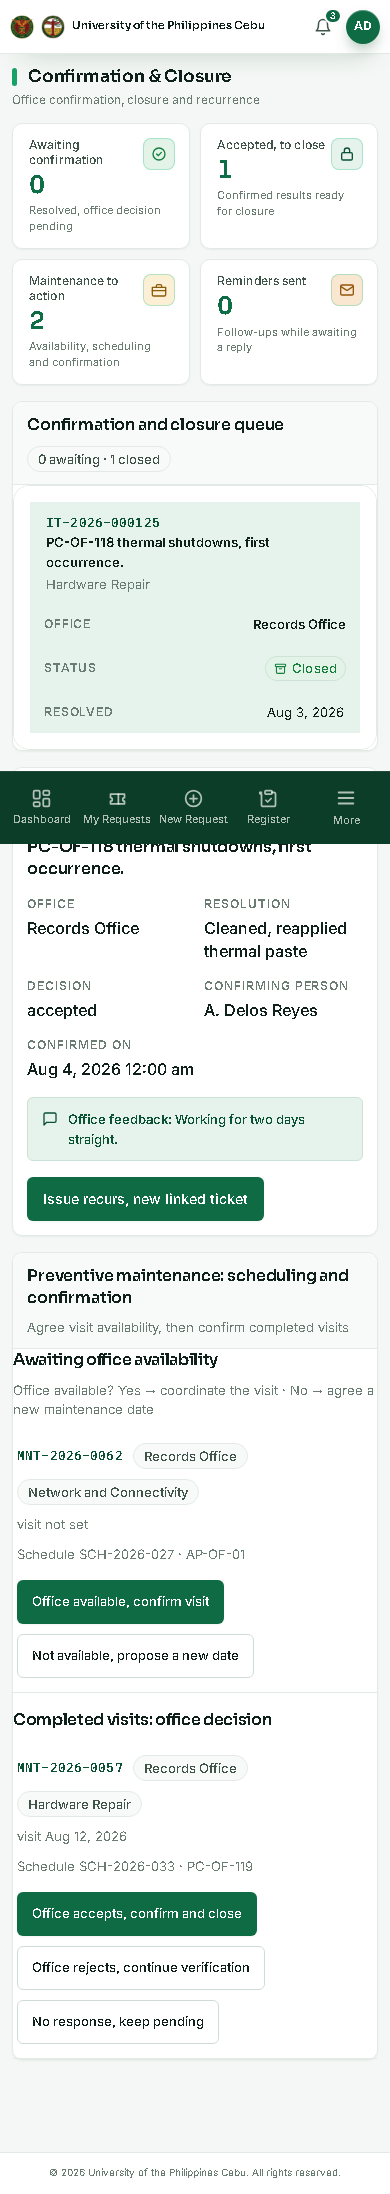
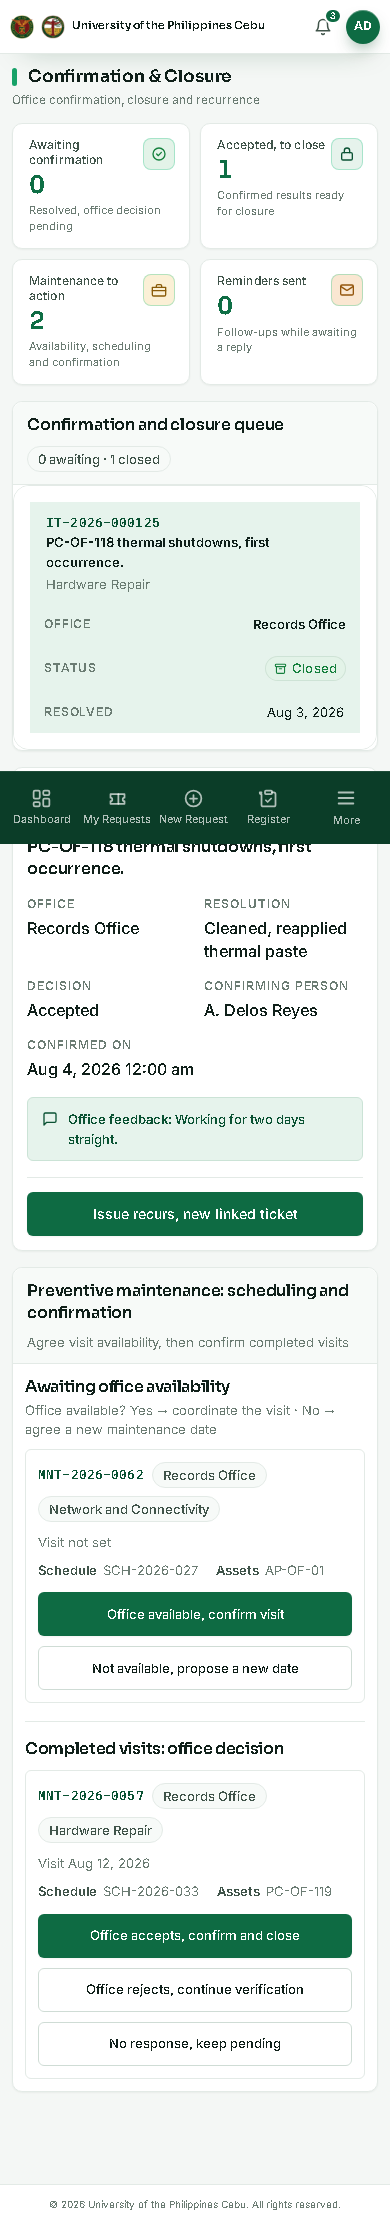
Phase 52: the Confirmation screen reads as one formal layout
Each maintenance visit is a full-width row with aligned chips, a right
aligned visit date, labelled schedule metadata and grouped actions. The
maintenance card body is padded and its two sections are divided by a rule,
the decision value is capitalized, and the ticket actions sit in one footer
row. The ownership check records that the workflow guide stays routable but
unlisted, and the shell cache moves to v22.

diff --git a/confirm.html b/confirm.html
@@ -56,7 +56,7 @@
       <div class="card mt">
         <div class="card-head"><h3>Preventive maintenance: scheduling and confirmation</h3>
           <span class="hint">Agree visit availability, then confirm completed visits</span></div>
-        <div id="cfJobs"></div>
+        <div id="cfJobs" class="cf-body"></div>
       </div>
     </main>
 
@@ -85,6 +85,12 @@ function kpi(label, value, delta, cls, dot) {
     '</div><div class="value">' + value + '</div><div class="delta">' + delta + '</div></div>';
 }
 function btn(label, a, cls) { return '<button class="btn ' + cls + '" data-act="' + a + '">' + label + '</button>'; }
+function decisionLabel(st) {
+  return {
+    pending: 'Pending', none: 'Pending', accepted: 'Accepted',
+    rejected: 'Rejected', no_response: 'No response'
+  }[st] || st;
+}
 
 /* Office tenancy: mirrors app._scoped_requester.  The office owns its records,
    and a person also keeps the requests they raised for another office.  The
@@ -199,12 +205,12 @@ function render() {
       (Store.db.role === 'requester' ? '' :
         '<div><div class="k">Technician</div><div class="v">' + UI.esc(t.technician || 'Unassigned') + '</div></div>') +
       '<div><div class="k">Resolution</div><div class="v">' + UI.esc(t.diagnosis.actions || t.diagnosis.findings || 'Not recorded') + '</div></div>' +
-      '<div><div class="k">Decision</div><div class="v">' + UI.esc(st === 'none' ? 'pending' : st) + '</div></div>' +
+      '<div><div class="k">Decision</div><div class="v">' + UI.esc(decisionLabel(st)) + '</div></div>' +
       '<div><div class="k">Confirming person</div><div class="v">' + UI.esc(t.confirmation.person || 'Not recorded') + '</div></div>' +
       '<div><div class="k">Confirmed on</div><div class="v">' + (t.confirmation.date ? UI.clock(t.confirmation.date) : 'Not set') + '</div></div>' +
       '</div>' +
       (t.confirmation.feedback ? '<div class="note mt"><span>' + UI.icon('message') + '</span><div><b>Office feedback:</b> ' + UI.esc(t.confirmation.feedback) + '</div></div>' : '') +
-      '<div class="row mt">' + ticketActions(t) + '</div>' +
+      '<div class="cf-detail-actions">' + ticketActions(t) + '</div>' +
       '</div>';
     panel.querySelectorAll('[data-act]').forEach(function (b) {
       b.addEventListener('click', function () { Actions.act(b.dataset.act, t.id, render); });
@@ -213,24 +219,28 @@ function render() {
 
   /* Maintenance: office availability (Requester lane) + Section 3 confirmation */
   function jobHead(j) {
-    return '<div class="card-head-row">' +
-      '<div class="row"><span class="t-id">' + UI.esc(j.id) + '</span><span class="chip">' + UI.esc(j.office) + '</span>' +
+    return '<div class="cf-job-top">' +
+      '<div class="cf-job-id"><span class="t-id">' + UI.esc(j.id) + '</span>' +
+      '<span class="chip">' + UI.esc(j.office) + '</span>' +
       '<span class="chip">' + UI.esc(j.category) + '</span></div>' +
-      '<span class="hint">' + (j.visitDate ? 'visit ' + UI.dateOnly(j.visitDate) : 'visit not set') + '</span></div>' +
-      '<div class="t-sub mt-xs">Schedule ' + UI.esc(j.scheduleId) + ' · ' + UI.esc(j.assets.join(', ')) +
-      (Store.db.role === 'requester' ? '' : ' · technician ' + UI.esc(j.technician)) + '</div>';
+      '<span class="cf-job-date">' + (j.visitDate ? 'Visit ' + UI.dateOnly(j.visitDate) : 'Visit not set') + '</span></div>' +
+      '<div class="cf-job-meta">' +
+      '<span><b>Schedule</b>' + UI.esc(j.scheduleId) + '</span>' +
+      '<span><b>Assets</b>' + UI.esc(j.assets.join(', ')) + '</span>' +
+      (Store.db.role === 'requester' ? '' : '<span><b>Technician</b>' + UI.esc(j.technician) + '</span>') +
+      '</div>';
   }
 
   var openHTML = openJobs.length ? openJobs.map(function (j) {
-    return '<div class="card-block">' + jobHead(j) +
-      '<div class="row mt">' +
+    return '<div class="cf-job">' + jobHead(j) +
+      '<div class="cf-job-actions">' +
       '<button class="btn btn-sm btn-primary" data-job="' + j.id + '" data-jact="availYes">Office available, confirm visit</button>' +
       '<button class="btn btn-sm btn-ghost" data-job="' + j.id + '" data-jact="availNo">Not available, propose a new date</button>' +
       '</div></div>';
   }).join('') : '<div class="empty"><img src="img/empty-inbox.svg" alt="" width="120" height="90" loading="lazy">No maintenance visit is waiting on your office.</div>';
 
   var doneHTML = jobs.length ? jobs.map(function (j) {
-    var h = '<div class="card-block">' + jobHead(j) + '<div class="row mt">';
+    var h = '<div class="cf-job">' + jobHead(j) + '<div class="cf-job-actions">';
     if (Store.db.role === 'requester') {
       h += '<button class="btn btn-sm btn-primary" data-job="' + j.id + '" data-jact="confYes">Office accepts, confirm and close</button>' +
         '<button class="btn btn-sm btn-ghost" data-job="' + j.id + '" data-jact="confNo">Office rejects, continue verification</button>' +
@@ -242,14 +252,17 @@ function render() {
     return h + '</div></div>';
   }).join('') : '<div class="empty"><img src="img/empty-inbox.svg" alt="" width="120" height="90" loading="lazy">No completed maintenance visit is awaiting confirmation.</div>';
 
-  /* visits pair up two per row: each block carries only a head and one
-     action row, so one per row left most of the page width empty */
+  /* Each visit is one full-width row: the id, office, category and visit date
+     align in a single line, the schedule details share one metadata line, and
+     the actions sit together under them. */
   document.getElementById('cfJobs').innerHTML =
-    '<div class="card-head-row"><h3 class="card-title">Awaiting office availability</h3>' +
-    '<span class="hint">Office available? Yes → coordinate the visit · No → agree a new maintenance date</span></div>' +
-    '<div class="cf-jobs">' + openHTML + '</div>' +
-    '<div class="card-head-row mt"><h3 class="card-title">Completed visits: office decision</h3></div>' +
-    '<div class="cf-jobs">' + doneHTML + '</div>';
+    '<div class="cf-section">' +
+    '<div class="cf-section-head"><h3 class="card-title">Awaiting office availability</h3>' +
+    '<p class="cf-section-note">Office available? Yes → coordinate the visit · No → agree a new maintenance date</p></div>' +
+    '<div class="cf-jobs">' + openHTML + '</div></div>' +
+    '<div class="cf-section">' +
+    '<div class="cf-section-head"><h3 class="card-title">Completed visits: office decision</h3></div>' +
+    '<div class="cf-jobs">' + doneHTML + '</div></div>';
 
   document.querySelectorAll('#cfJobs [data-jact]').forEach(function (b) {
     b.addEventListener('click', function () { jobAct(b.dataset.jact, b.dataset.job); });

diff --git a/ic-confirm.html b/ic-confirm.html
@@ -57,7 +57,7 @@
       <div class="card mt">
         <div class="card-head"><h3>Preventive maintenance: scheduling and confirmation</h3>
           <span class="hint">Agree visit availability, then confirm completed visits</span></div>
-        <div id="cfJobs"></div>
+        <div id="cfJobs" class="cf-body"></div>
       </div>
     </main>
 
@@ -86,6 +86,12 @@ function kpi(label, value, delta, cls, dot) {
     '</div><div class="value">' + value + '</div><div class="delta">' + delta + '</div></div>';
 }
 function btn(label, a, cls) { return '<button class="btn ' + cls + '" data-act="' + a + '">' + label + '</button>'; }
+function decisionLabel(st) {
+  return {
+    pending: 'Pending', none: 'Pending', accepted: 'Accepted',
+    rejected: 'Rejected', no_response: 'No response'
+  }[st] || st;
+}
 
 /* Office tenancy: mirrors app._scoped_requester.  The office owns its records,
    and a person also keeps the requests they raised for another office.  The
@@ -200,12 +206,12 @@ function render() {
       (Store.db.role === 'requester' ? '' :
         '<div><div class="k">Technician</div><div class="v">' + UI.esc(t.technician || 'Unassigned') + '</div></div>') +
       '<div><div class="k">Resolution</div><div class="v">' + UI.esc(t.diagnosis.actions || t.diagnosis.findings || 'Not recorded') + '</div></div>' +
-      '<div><div class="k">Decision</div><div class="v">' + UI.esc(st === 'none' ? 'pending' : st) + '</div></div>' +
+      '<div><div class="k">Decision</div><div class="v">' + UI.esc(decisionLabel(st)) + '</div></div>' +
       '<div><div class="k">Confirming person</div><div class="v">' + UI.esc(t.confirmation.person || 'Not recorded') + '</div></div>' +
       '<div><div class="k">Confirmed on</div><div class="v">' + (t.confirmation.date ? UI.clock(t.confirmation.date) : 'Not set') + '</div></div>' +
       '</div>' +
       (t.confirmation.feedback ? '<div class="note mt"><span>' + UI.icon('message') + '</span><div><b>Office feedback:</b> ' + UI.esc(t.confirmation.feedback) + '</div></div>' : '') +
-      '<div class="row mt">' + ticketActions(t) + '</div>' +
+      '<div class="cf-detail-actions">' + ticketActions(t) + '</div>' +
       '</div>';
     panel.querySelectorAll('[data-act]').forEach(function (b) {
       b.addEventListener('click', function () { Actions.act(b.dataset.act, t.id, render); });
@@ -214,24 +220,28 @@ function render() {
 
   /* Maintenance: office availability (Requester lane) + Section 3 confirmation */
   function jobHead(j) {
-    return '<div class="card-head-row">' +
-      '<div class="row"><span class="t-id">' + UI.esc(j.id) + '</span><span class="chip">' + UI.esc(j.office) + '</span>' +
+    return '<div class="cf-job-top">' +
+      '<div class="cf-job-id"><span class="t-id">' + UI.esc(j.id) + '</span>' +
+      '<span class="chip">' + UI.esc(j.office) + '</span>' +
       '<span class="chip">' + UI.esc(j.category) + '</span></div>' +
-      '<span class="hint">' + (j.visitDate ? 'visit ' + UI.dateOnly(j.visitDate) : 'visit not set') + '</span></div>' +
-      '<div class="t-sub mt-xs">Schedule ' + UI.esc(j.scheduleId) + ' · ' + UI.esc(j.assets.join(', ')) +
-      (Store.db.role === 'requester' ? '' : ' · technician ' + UI.esc(j.technician)) + '</div>';
+      '<span class="cf-job-date">' + (j.visitDate ? 'Visit ' + UI.dateOnly(j.visitDate) : 'Visit not set') + '</span></div>' +
+      '<div class="cf-job-meta">' +
+      '<span><b>Schedule</b>' + UI.esc(j.scheduleId) + '</span>' +
+      '<span><b>Assets</b>' + UI.esc(j.assets.join(', ')) + '</span>' +
+      (Store.db.role === 'requester' ? '' : '<span><b>Technician</b>' + UI.esc(j.technician) + '</span>') +
+      '</div>';
   }
 
   var openHTML = openJobs.length ? openJobs.map(function (j) {
-    return '<div class="card-block">' + jobHead(j) +
-      '<div class="row mt">' +
+    return '<div class="cf-job">' + jobHead(j) +
+      '<div class="cf-job-actions">' +
       '<button class="btn btn-sm btn-primary" data-job="' + j.id + '" data-jact="availYes">Office available, confirm visit</button>' +
       '<button class="btn btn-sm btn-ghost" data-job="' + j.id + '" data-jact="availNo">Not available, propose a new date</button>' +
       '</div></div>';
   }).join('') : '<div class="empty"><img src="img/empty-inbox.svg" alt="" width="120" height="90" loading="lazy">No maintenance visit is waiting on your office.</div>';
 
   var doneHTML = jobs.length ? jobs.map(function (j) {
-    var h = '<div class="card-block">' + jobHead(j) + '<div class="row mt">';
+    var h = '<div class="cf-job">' + jobHead(j) + '<div class="cf-job-actions">';
     if (Store.db.role === 'requester') {
       h += '<button class="btn btn-sm btn-primary" data-job="' + j.id + '" data-jact="confYes">Office accepts, confirm and close</button>' +
         '<button class="btn btn-sm btn-ghost" data-job="' + j.id + '" data-jact="confNo">Office rejects, continue verification</button>' +
@@ -243,14 +253,17 @@ function render() {
     return h + '</div></div>';
   }).join('') : '<div class="empty"><img src="img/empty-inbox.svg" alt="" width="120" height="90" loading="lazy">No completed maintenance visit is awaiting confirmation.</div>';
 
-  /* visits pair up two per row: each block carries only a head and one
-     action row, so one per row left most of the page width empty */
+  /* Each visit is one full-width row: the id, office, category and visit date
+     align in a single line, the schedule details share one metadata line, and
+     the actions sit together under them. */
   document.getElementById('cfJobs').innerHTML =
-    '<div class="card-head-row"><h3 class="card-title">Awaiting office availability</h3>' +
-    '<span class="hint">Office available? Yes → coordinate the visit · No → agree a new maintenance date</span></div>' +
-    '<div class="cf-jobs">' + openHTML + '</div>' +
-    '<div class="card-head-row mt"><h3 class="card-title">Completed visits: office decision</h3></div>' +
-    '<div class="cf-jobs">' + doneHTML + '</div>';
+    '<div class="cf-section">' +
+    '<div class="cf-section-head"><h3 class="card-title">Awaiting office availability</h3>' +
+    '<p class="cf-section-note">Office available? Yes → coordinate the visit · No → agree a new maintenance date</p></div>' +
+    '<div class="cf-jobs">' + openHTML + '</div></div>' +
+    '<div class="cf-section">' +
+    '<div class="cf-section-head"><h3 class="card-title">Completed visits: office decision</h3></div>' +
+    '<div class="cf-jobs">' + doneHTML + '</div></div>';
 
   document.querySelectorAll('#cfJobs [data-jact]').forEach(function (b) {
     b.addEventListener('click', function () { jobAct(b.dataset.jact, b.dataset.job); });

diff --git a/or-confirm.html b/or-confirm.html
@@ -57,7 +57,7 @@
       <div class="card mt">
         <div class="card-head"><h3>Preventive maintenance: scheduling and confirmation</h3>
           <span class="hint">Agree visit availability, then confirm completed visits</span></div>
-        <div id="cfJobs"></div>
+        <div id="cfJobs" class="cf-body"></div>
       </div>
     </main>
 
@@ -86,6 +86,12 @@ function kpi(label, value, delta, cls, dot) {
     '</div><div class="value">' + value + '</div><div class="delta">' + delta + '</div></div>';
 }
 function btn(label, a, cls) { return '<button class="btn ' + cls + '" data-act="' + a + '">' + label + '</button>'; }
+function decisionLabel(st) {
+  return {
+    pending: 'Pending', none: 'Pending', accepted: 'Accepted',
+    rejected: 'Rejected', no_response: 'No response'
+  }[st] || st;
+}
 
 /* Office tenancy: mirrors app._scoped_requester.  The office owns its records,
    and a person also keeps the requests they raised for another office.  The
@@ -200,12 +206,12 @@ function render() {
       (Store.db.role === 'requester' ? '' :
         '<div><div class="k">Technician</div><div class="v">' + UI.esc(t.technician || 'Unassigned') + '</div></div>') +
       '<div><div class="k">Resolution</div><div class="v">' + UI.esc(t.diagnosis.actions || t.diagnosis.findings || 'Not recorded') + '</div></div>' +
-      '<div><div class="k">Decision</div><div class="v">' + UI.esc(st === 'none' ? 'pending' : st) + '</div></div>' +
+      '<div><div class="k">Decision</div><div class="v">' + UI.esc(decisionLabel(st)) + '</div></div>' +
       '<div><div class="k">Confirming person</div><div class="v">' + UI.esc(t.confirmation.person || 'Not recorded') + '</div></div>' +
       '<div><div class="k">Confirmed on</div><div class="v">' + (t.confirmation.date ? UI.clock(t.confirmation.date) : 'Not set') + '</div></div>' +
       '</div>' +
       (t.confirmation.feedback ? '<div class="note mt"><span>' + UI.icon('message') + '</span><div><b>Office feedback:</b> ' + UI.esc(t.confirmation.feedback) + '</div></div>' : '') +
-      '<div class="row mt">' + ticketActions(t) + '</div>' +
+      '<div class="cf-detail-actions">' + ticketActions(t) + '</div>' +
       '</div>';
     panel.querySelectorAll('[data-act]').forEach(function (b) {
       b.addEventListener('click', function () { Actions.act(b.dataset.act, t.id, render); });
@@ -214,24 +220,28 @@ function render() {
 
   /* Maintenance: office availability (Requester lane) + Section 3 confirmation */
   function jobHead(j) {
-    return '<div class="card-head-row">' +
-      '<div class="row"><span class="t-id">' + UI.esc(j.id) + '</span><span class="chip">' + UI.esc(j.office) + '</span>' +
+    return '<div class="cf-job-top">' +
+      '<div class="cf-job-id"><span class="t-id">' + UI.esc(j.id) + '</span>' +
+      '<span class="chip">' + UI.esc(j.office) + '</span>' +
       '<span class="chip">' + UI.esc(j.category) + '</span></div>' +
-      '<span class="hint">' + (j.visitDate ? 'visit ' + UI.dateOnly(j.visitDate) : 'visit not set') + '</span></div>' +
-      '<div class="t-sub mt-xs">Schedule ' + UI.esc(j.scheduleId) + ' · ' + UI.esc(j.assets.join(', ')) +
-      (Store.db.role === 'requester' ? '' : ' · technician ' + UI.esc(j.technician)) + '</div>';
+      '<span class="cf-job-date">' + (j.visitDate ? 'Visit ' + UI.dateOnly(j.visitDate) : 'Visit not set') + '</span></div>' +
+      '<div class="cf-job-meta">' +
+      '<span><b>Schedule</b>' + UI.esc(j.scheduleId) + '</span>' +
+      '<span><b>Assets</b>' + UI.esc(j.assets.join(', ')) + '</span>' +
+      (Store.db.role === 'requester' ? '' : '<span><b>Technician</b>' + UI.esc(j.technician) + '</span>') +
+      '</div>';
   }
 
   var openHTML = openJobs.length ? openJobs.map(function (j) {
-    return '<div class="card-block">' + jobHead(j) +
-      '<div class="row mt">' +
+    return '<div class="cf-job">' + jobHead(j) +
+      '<div class="cf-job-actions">' +
       '<button class="btn btn-sm btn-primary" data-job="' + j.id + '" data-jact="availYes">Office available, confirm visit</button>' +
       '<button class="btn btn-sm btn-ghost" data-job="' + j.id + '" data-jact="availNo">Not available, propose a new date</button>' +
       '</div></div>';
   }).join('') : '<div class="empty"><img src="img/empty-inbox.svg" alt="" width="120" height="90" loading="lazy">No maintenance visit is waiting on your office.</div>';
 
   var doneHTML = jobs.length ? jobs.map(function (j) {
-    var h = '<div class="card-block">' + jobHead(j) + '<div class="row mt">';
+    var h = '<div class="cf-job">' + jobHead(j) + '<div class="cf-job-actions">';
     if (Store.db.role === 'requester') {
       h += '<button class="btn btn-sm btn-primary" data-job="' + j.id + '" data-jact="confYes">Office accepts, confirm and close</button>' +
         '<button class="btn btn-sm btn-ghost" data-job="' + j.id + '" data-jact="confNo">Office rejects, continue verification</button>' +
@@ -243,14 +253,17 @@ function render() {
     return h + '</div></div>';
   }).join('') : '<div class="empty"><img src="img/empty-inbox.svg" alt="" width="120" height="90" loading="lazy">No completed maintenance visit is awaiting confirmation.</div>';
 
-  /* visits pair up two per row: each block carries only a head and one
-     action row, so one per row left most of the page width empty */
+  /* Each visit is one full-width row: the id, office, category and visit date
+     align in a single line, the schedule details share one metadata line, and
+     the actions sit together under them. */
   document.getElementById('cfJobs').innerHTML =
-    '<div class="card-head-row"><h3 class="card-title">Awaiting office availability</h3>' +
-    '<span class="hint">Office available? Yes → coordinate the visit · No → agree a new maintenance date</span></div>' +
-    '<div class="cf-jobs">' + openHTML + '</div>' +
-    '<div class="card-head-row mt"><h3 class="card-title">Completed visits: office decision</h3></div>' +
-    '<div class="cf-jobs">' + doneHTML + '</div>';
+    '<div class="cf-section">' +
+    '<div class="cf-section-head"><h3 class="card-title">Awaiting office availability</h3>' +
+    '<p class="cf-section-note">Office available? Yes → coordinate the visit · No → agree a new maintenance date</p></div>' +
+    '<div class="cf-jobs">' + openHTML + '</div></div>' +
+    '<div class="cf-section">' +
+    '<div class="cf-section-head"><h3 class="card-title">Completed visits: office decision</h3></div>' +
+    '<div class="cf-jobs">' + doneHTML + '</div></div>';
 
   document.querySelectorAll('#cfJobs [data-jact]').forEach(function (b) {
     b.addEventListener('click', function () { jobAct(b.dataset.jact, b.dataset.job); });

diff --git a/css/console.css b/css/console.css
@@ -1193,12 +1193,39 @@ html[data-density="compact"] .list li{padding-top:8px;padding-bottom:8px}
   .notes-2{grid-template-columns:minmax(0,1fr)}
 }
 
-/* Confirmation: maintenance visit blocks pair up two per row. */
-.cf-jobs{display:grid;grid-template-columns:repeat(2,minmax(0,1fr));gap:0 18px}
-.cf-jobs > .card-block{border-top:0;border-bottom:1px solid var(--line);padding:14px 4px}
-.cf-jobs > .empty{grid-column:1/-1}
-@media (max-width:899px){
-  .cf-jobs{grid-template-columns:minmax(0,1fr)}
+/* Confirmation: each maintenance visit is one full-width row.  Two-up
+   columns left a lone visit in a half-empty column and a rule that stopped
+   mid-card.  The body is padded so the rows sit inside the card instead of
+   touching its border, and the second section is separated by a rule. */
+.cf-body{padding:16px 18px}
+.cf-section + .cf-section{margin-top:18px;padding-top:16px;border-top:1px solid var(--line)}
+.cf-jobs{display:grid;grid-template-columns:minmax(0,1fr);gap:12px}
+.cf-job{
+  border:1px solid var(--line);
+  border-radius:var(--radius-sm);
+  padding:14px 16px;
+  background:var(--surface);
+}
+.cf-job-top{display:flex;align-items:center;justify-content:space-between;gap:10px;flex-wrap:wrap}
+.cf-job-id{display:flex;align-items:center;gap:8px;flex-wrap:wrap;min-width:0}
+.cf-job-date{font-size:var(--text-sm);color:var(--muted);white-space:nowrap}
+.cf-job-meta{display:flex;flex-wrap:wrap;gap:4px 18px;margin-top:8px}
+.cf-job-meta>span{display:flex;flex-wrap:wrap;gap:0 6px;font-size:var(--text-sm);color:var(--muted);min-width:0}
+.cf-job-meta b{color:var(--text-secondary);font-weight:var(--w-semibold)}
+.cf-job-actions{display:flex;flex-wrap:wrap;align-items:center;gap:10px;margin-top:12px}
+.cf-section-head{margin-bottom:10px}
+.cf-section-note{margin:3px 0 0;font-size:var(--text-sm);line-height:1.45;color:var(--muted)}
+.cf-jobs>.empty{padding:18px 12px}
+.cf-detail-actions{
+  display:flex;flex-wrap:wrap;align-items:center;gap:10px;
+  margin-top:16px;padding-top:14px;border-top:1px solid var(--line);
+}
+.cf-detail-actions .btn{flex:1 1 100%}
+@media (max-width:599px){
+  .cf-body{padding:12px 12px}
+  .cf-job{padding:12px 12px}
+  .cf-job-date{white-space:normal}
+  .cf-job-actions .btn{flex:1 1 100%}
 }
 
 /* In a narrow card the office name or the status name keeps its words:

diff --git a/tools/ui_ownership_check.js b/tools/ui_ownership_check.js
@@ -44,6 +44,12 @@ var LANE = {
    tools/role_pages.py keeps the same list for the generated files. */
 var NO_ROLE = ['login.html', '404.html', 'index.html', 'offline.html'];
 
+/* Pages the map opens on purpose but no lane links to.  The work guide was
+   taken out of every lane's navigation by the owner in Phase 51 and is kept
+   routable by direct URL only, as recorded in docs/DESIGN_SYSTEM.md.  A
+   reachability miss on these is the documented state, not a defect. */
+var UNLISTED = ['flow.html'];
+
 var problems = [];
 function bad(text) { problems.push(text); }
 
@@ -477,7 +483,7 @@ ROLES.forEach(function (role) {
     scriptPages(file).forEach(add);
   }
   entitled.forEach(function (page) {
-    if (seen[page]) return;
+    if (seen[page] || UNLISTED.indexOf(page) > -1) return;
     bad('the ' + LANE[role] + ' lane may open ' + page +
         ', but no nav entry, bar entry, account entry or page link leads there');
   });

diff --git a/sw.js b/sw.js
@@ -11,7 +11,7 @@
  */
 'use strict';
 
-var VERSION = 'itc-shell-v21';
+var VERSION = 'itc-shell-v22';
 var SHELL_CACHE = VERSION + '-shell';
 
 /* The app shell.  Role-prefixed pages are generated from these, so they are

diff --git a/docs/IMPLEMENTATION_CHECKLIST.md b/docs/IMPLEMENTATION_CHECKLIST.md
@@ -687,7 +687,17 @@ rule is now a fixed rule in `docs/DECISIONS.md`.
 | 51.1 | The guide is no longer offered in any lane | DONE | `navModel()` now ends after the role groups (`js/ui.js:1127`), so the desktop rail carries no Reference group. The phone More sheet and the command palette both build from `navModel()`, so neither lists `flow.html` either. The permission map is unchanged and the guide stays routable at `flow.html` and the four lane copies, matching the documented state in `docs/DESIGN_SYSTEM.md:326-329` and `docs/KNOWN_LIMITATIONS.md:194-197` |
 | 51.2 | Proof | DONE | `tools/pagetest.js:1237` checks all four roles for no Workflow Guide entry, `tools/pagetest.js:1257` checks the administrator, `tools/pagetest.js:1642` checks the More sheet, and `scopeAcrossWidths` no longer expects `flow.html` in any lane; `tools/rolepages_test.js:615-620` now treats `flow.html` as a forbidden rail link. The shell cache is raised to `itc-shell-v21` (`sw.js:14`) so a deployed client picks up the new `js/ui.js` and `index.html`. On this tree: page suite 1050 passed and 0 failed, lane pages 513 passed and 0 failed, and `node --check` is clean on the edited files |
 | 51.3 | The design gallery no longer previews the guide | DONE | The last anchor outside the guide's own pages was the "Flowchart fidelity" card in the development gallery. It is removed from `index.html`, which now holds 19 cards and no `flow.html` link, and `tools/pagetest.js:993` lowers its gallery bound to 19. A repository-wide `href` sweep finds no in-app link to `flow.html`. Validation PASSED, UI consistency PASSED (69 pages), and the page suite 1050 passed and 0 failed |
-| 51.4 | Limitations | OPEN | The guide remains routable by direct URL because the permission map and the Appendix C coverage requirement are unchanged, and the roles capability table still names the guide as a shared page. The page suite still drives `flow.html` directly at `tools/pagetest.js:895` |
+| 51.4 | Limitations | OPEN | The guide remains routable by direct URL because the permission map and the Appendix C coverage requirement are unchanged, and the roles capability table still names the guide as a shared page. The page suite still drives `flow.html` directly at `tools/pagetest.js:895`. `tools/ui_ownership_check.js` now records that state in `UNLISTED` (`tools/ui_ownership_check.js:51`), so an unlisted page the map opens is expected instead of a failure, and the tool returns PASS again |
+
+## Phase 52. The Confirmation screen reads as one formal layout
+
+| # | Item | Status | Evidence |
+|---|---|---|---|
+| 52.1 | Each maintenance visit is one aligned row | DONE | `confirm.html:221` renders a visit as an id and office/category chips, a right-aligned visit date, one labelled metadata line (`Schedule`, `Assets`, `Technician`), and its actions together. `css/console.css:1202` keeps the list single column, so a lone visit no longer sits in a half-empty two-up column with a rule that stopped mid-card |
+| 52.2 | The maintenance card body is padded and its sections divided | DONE | `confirm.html:59` gives the body `cf-body`, so the section titles and rows sit inside the card instead of touching its border and misaligning with the card head title. `css/console.css:1200` pads it and `css/console.css:1201` puts a rule between "Awaiting office availability" and "Completed visits: office decision" |
+| 52.3 | Values and actions read formally | DONE | The decision value is capitalized through `decisionLabel` (`confirm.html:88`), covering the `pending` state the seed uses. The ticket actions sit in one footer row (`css/console.css:1223`) with full-width buttons in the side panel, matching the stacked job buttons on phones |
+| 52.4 | Checks | DONE | On this tree: page suite 1050 passed and 0 failed, lane pages 513 passed, validation PASSED, UI consistency PASSED (69 pages), theme discipline PASS, role page check PASS (45 files, 45 unique titles), UI ownership PASS, and captures at desktop, tablet, 390px and 320px show 0 problems. The shell cache is raised to `itc-shell-v22` (`sw.js:14`) because `confirm.html` and `css/console.css` are precached |
+| 52.5 | Limitations | OPEN | The queue card is shorter than the detail card beside it, so the left column ends higher on desktop; stretching it would show an empty card, so the column keeps its natural height. Phone full-page frames still draw the fixed bottom bar at the original viewport edge, which is a capture artifact rather than a layout fault |
 
 ## Known gaps
 
